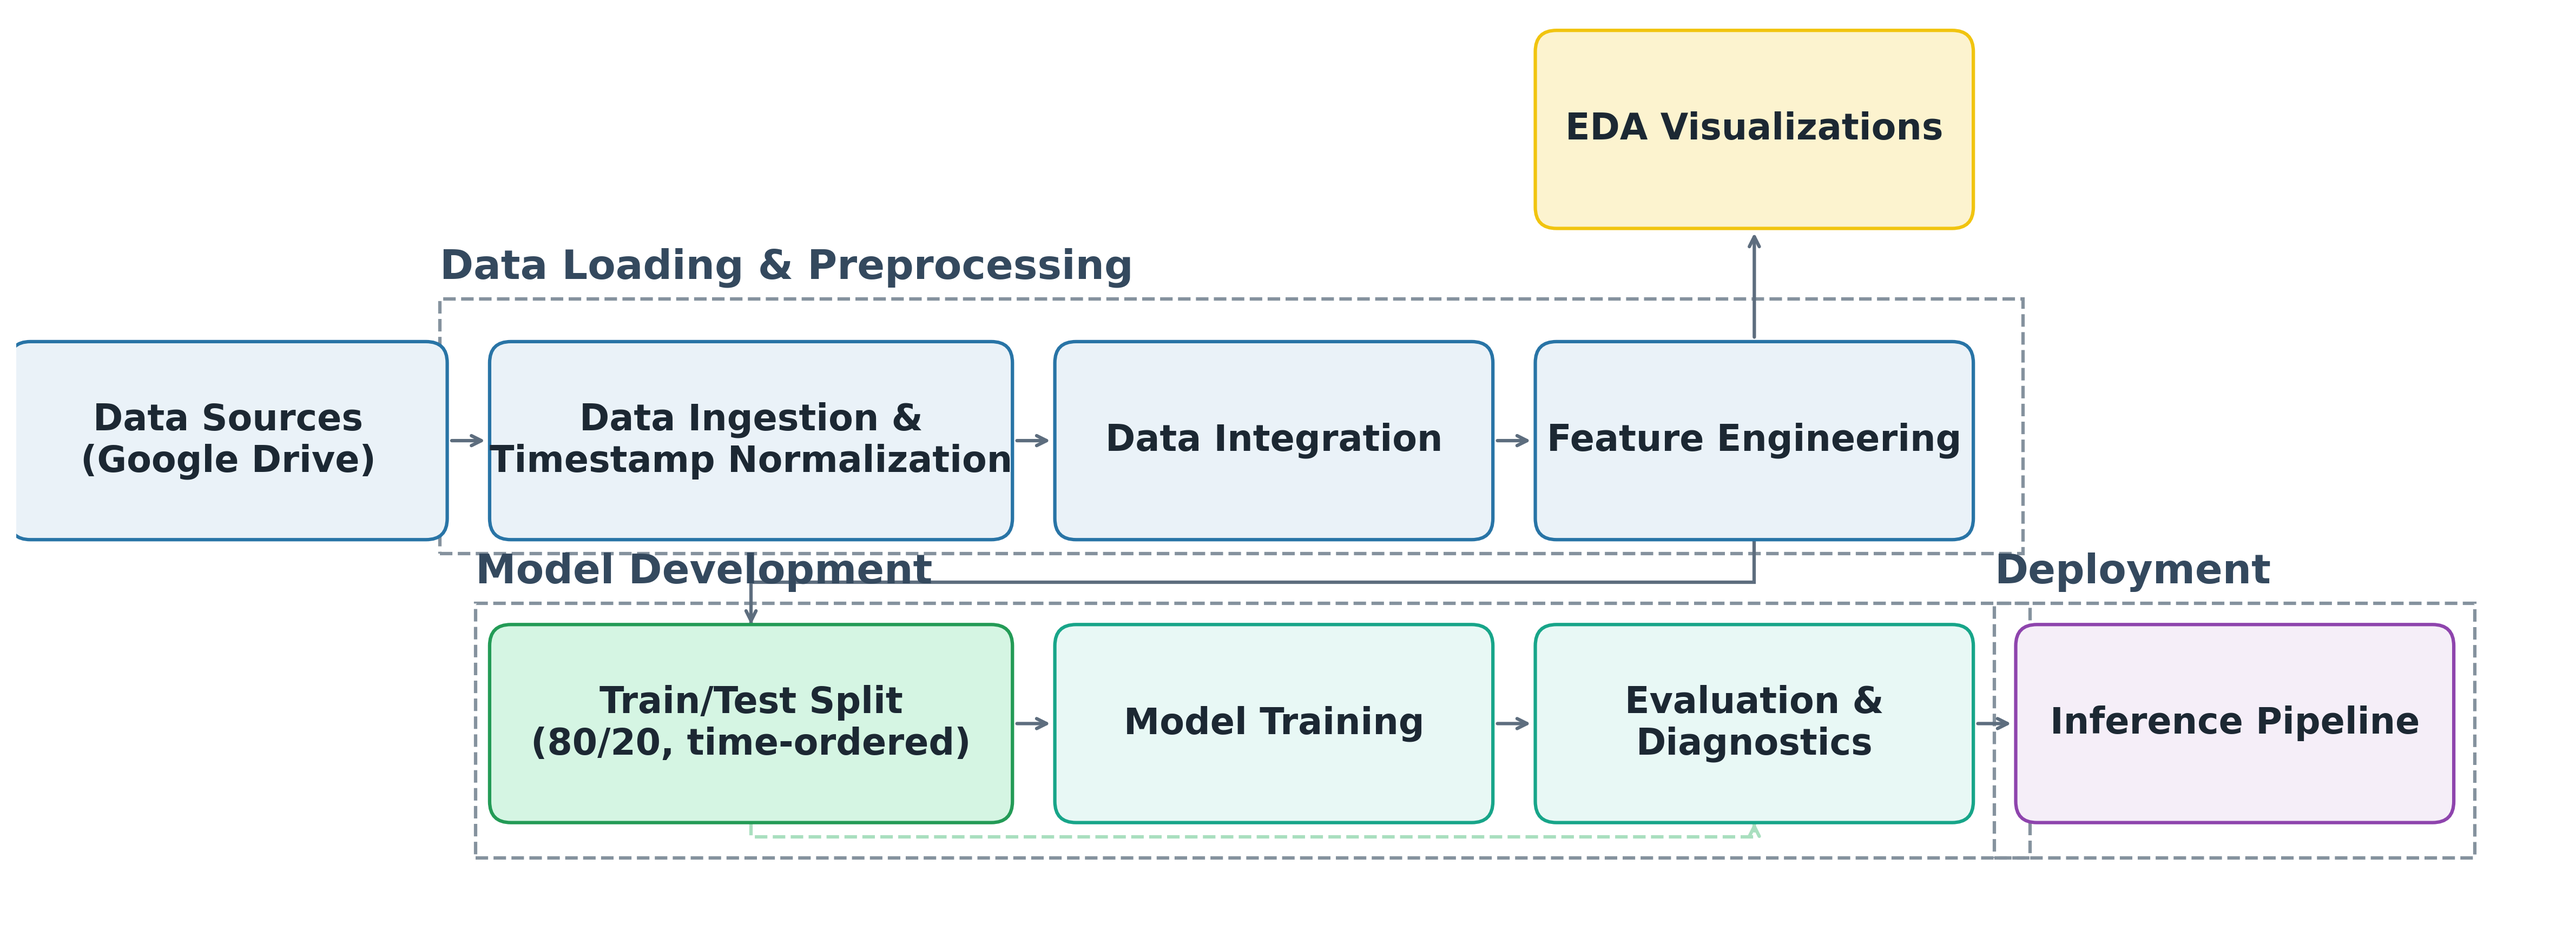
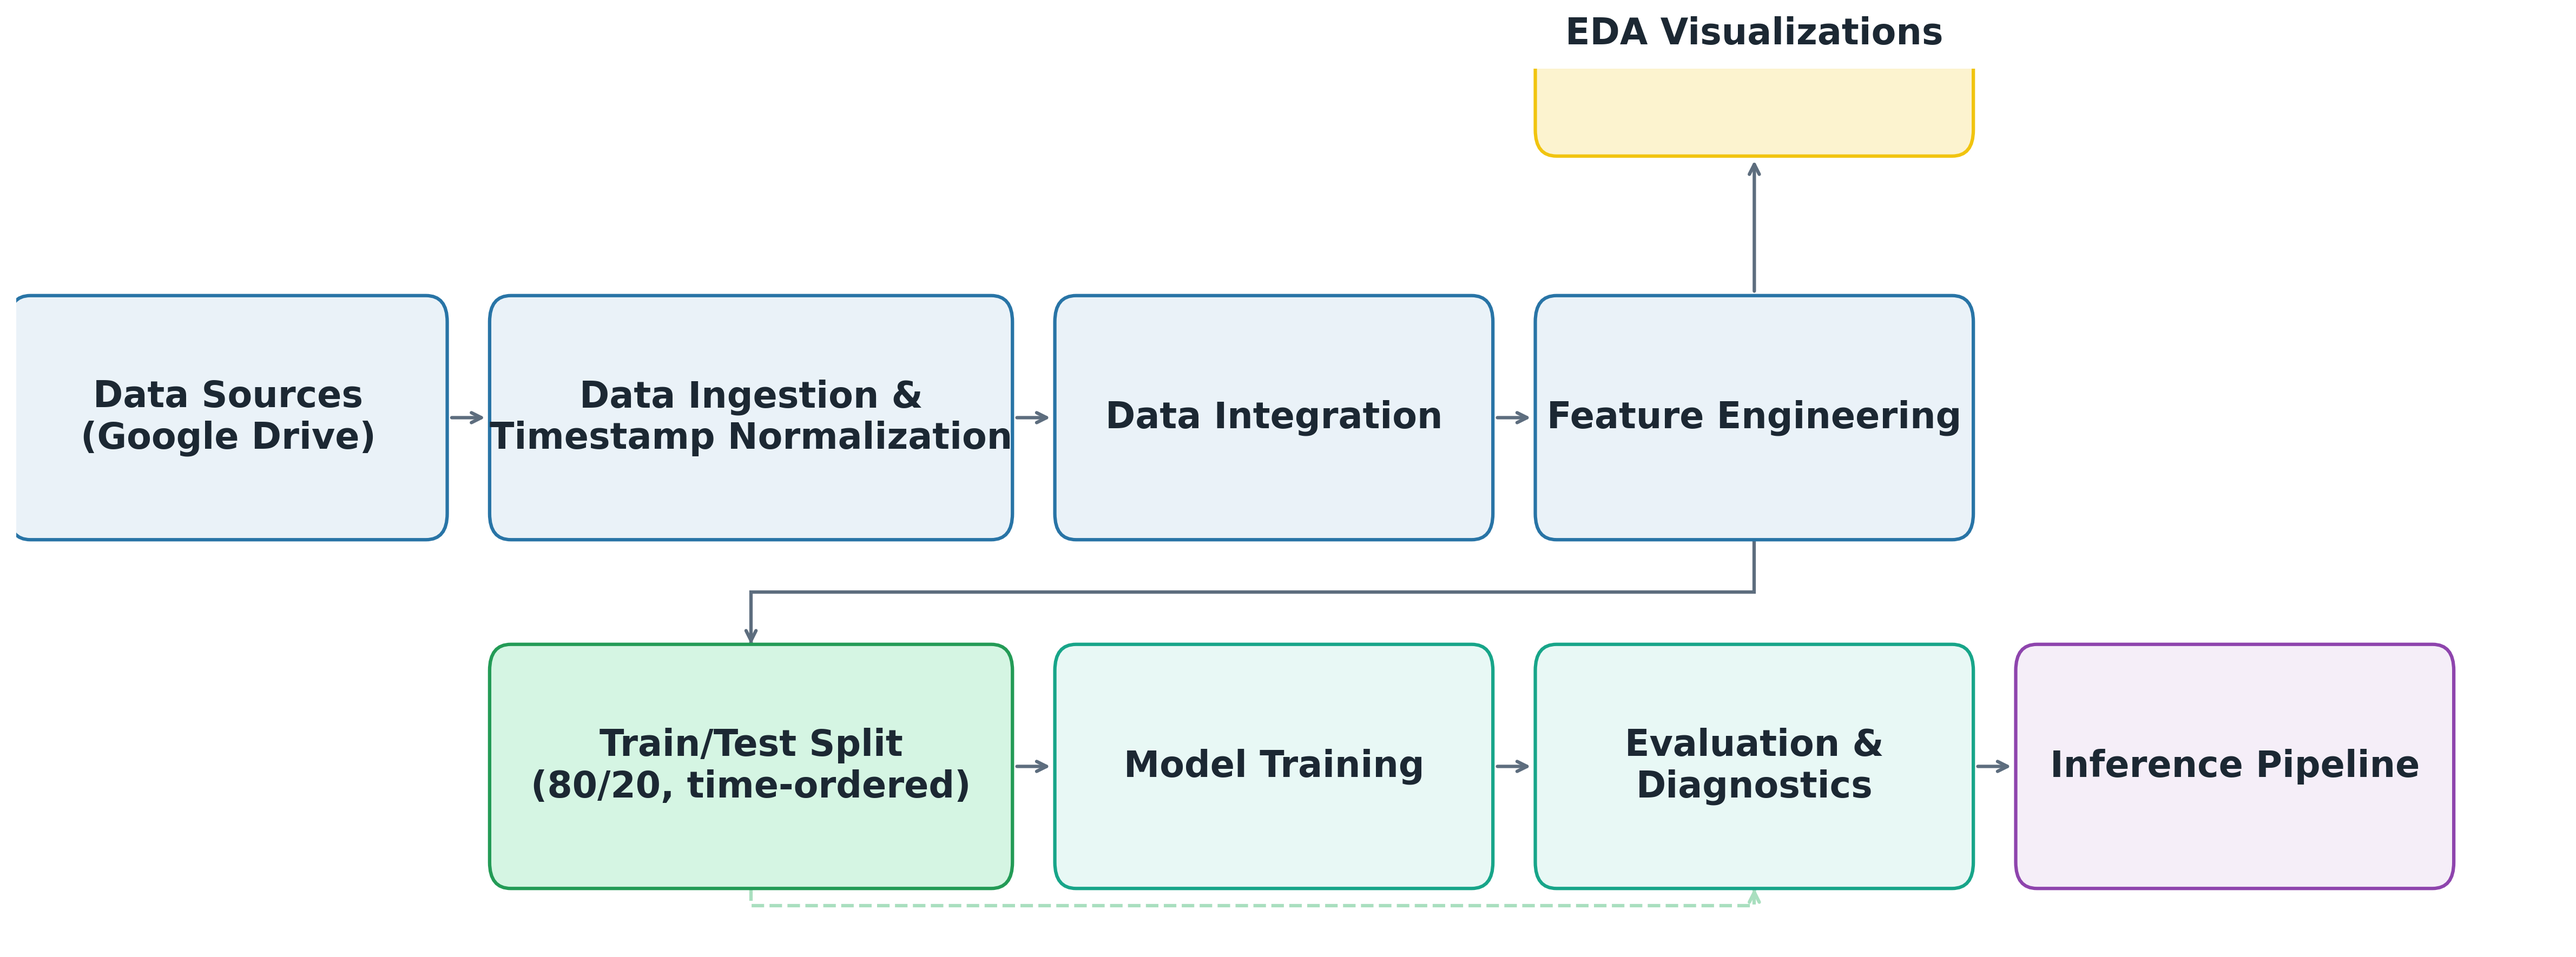
style(diagrams): remove unused cluster boundary labels

diff --git a/generate_ml_pipeline_diagram.py b/generate_ml_pipeline_diagram.py
@@ -151,27 +151,8 @@ def create_ml_pipeline_diagram():
                 arrowprops=dict(arrowstyle="->", color='#A9DFBF', lw=1.5), zorder=2)
 
 
-    def draw_cluster(x, y, w, h, label):
-        rect = patches.Rectangle(
-            (x, y), w, h, fill=False, edgecolor=colors['cluster_border'],
-            lw=1.5, ls='dashed', zorder=1
-        )
-        ax.add_patch(rect)
-        # Position label just above the top-left corner
-        ax.text(x, y + h + 0.08, label, ha='left', va='bottom',
-                color='#34495E', fontsize=18, weight='bold', zorder=2)
-
-    # Data Prep Cluster
-    draw_cluster(3.0, 2.2, 11.2, 1.8, 'Data Loading & Preprocessing')
-
-    # Modeling Cluster
-    draw_cluster(3.25, 0.05, 11.0, 1.8, 'Model Development')
-
-    # Deployment Cluster
-    draw_cluster(14.0, 0.05, 3.4, 1.8, 'Deployment')
-
     ax.set_xlim(0, 18.0)
-    ax.set_ylim(-0.5, 6)
+    ax.set_ylim(0, 5)
     # Remove aspect='equal' as it distorts exact positioning in inches/figure units
     # ax.set_aspect('equal', adjustable='box')
 
